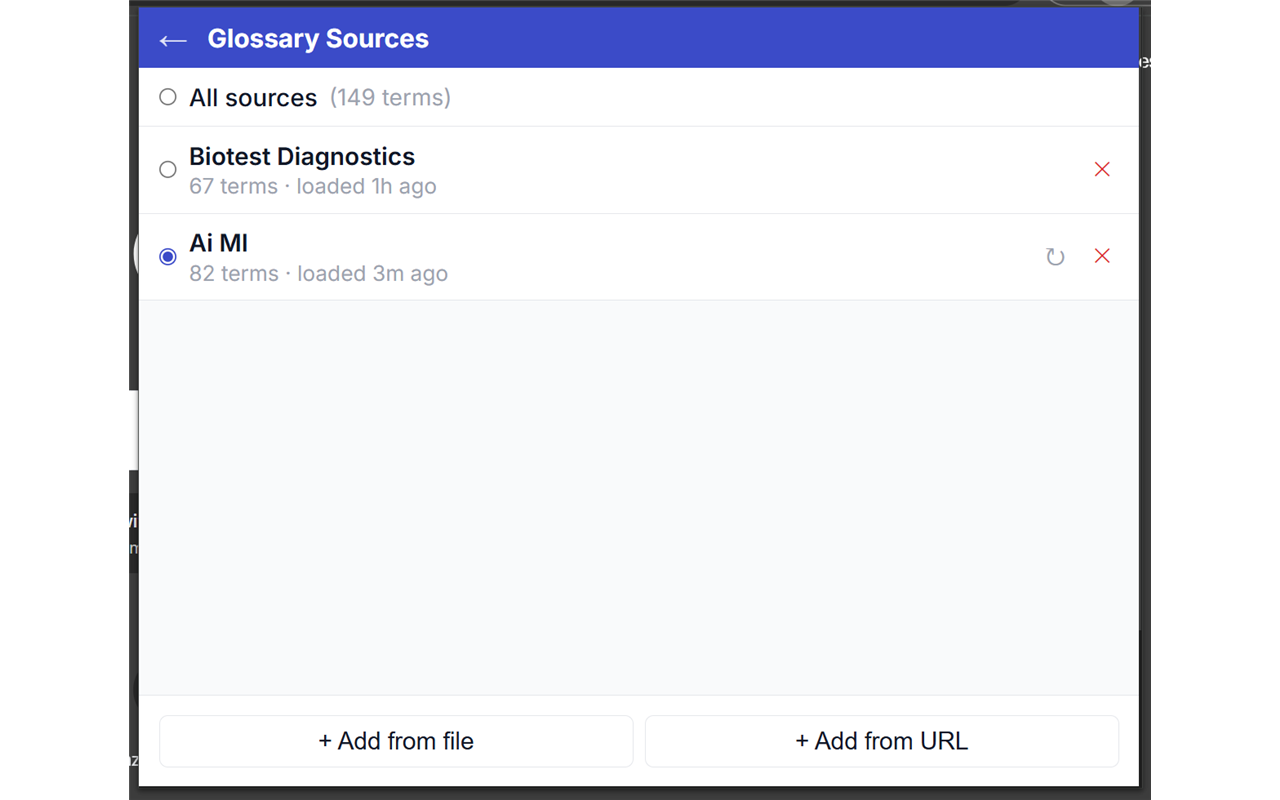
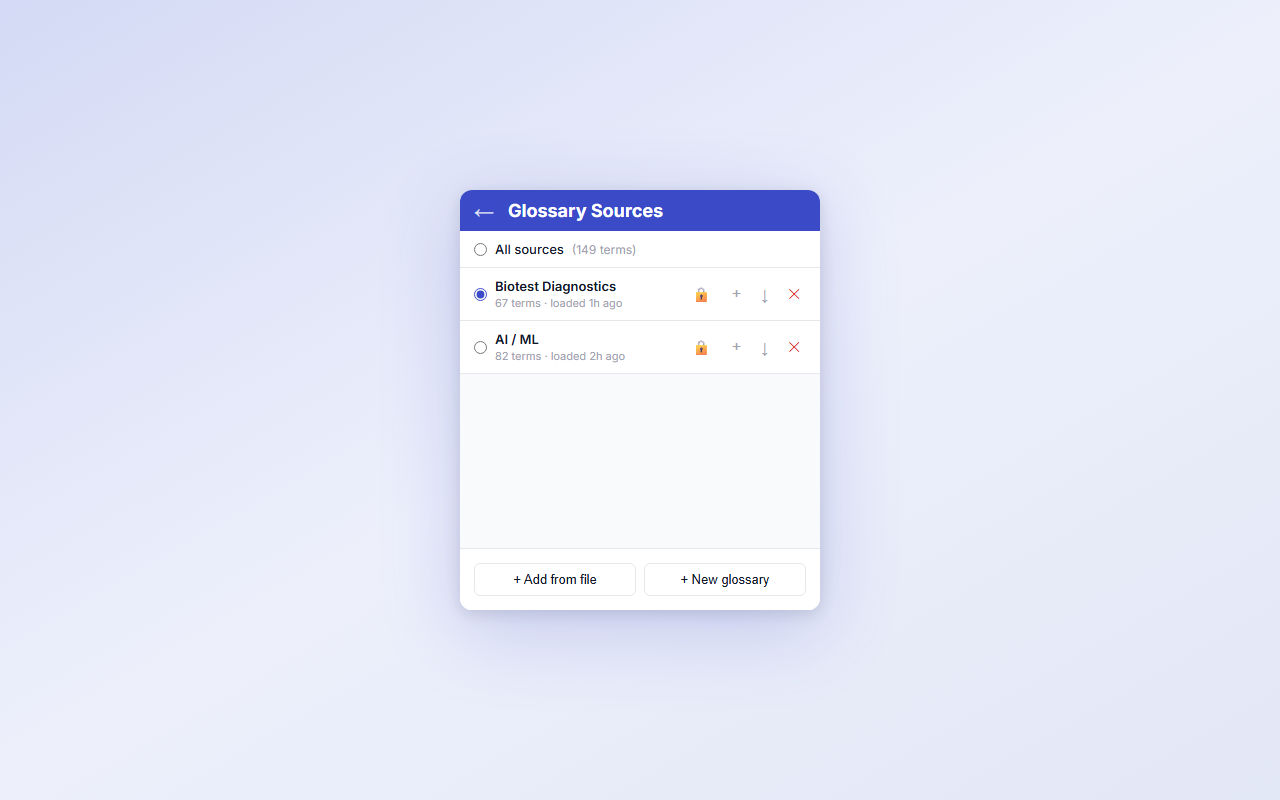
Update screenshots to v1.0.4 UI; add screenshot script
Regenerate all three CWS screenshots at 1280×800 using a new Playwright
script (scripts/take-screenshots.mjs, npm run screenshots). Screenshots
now reflect the current UI: pill segment toggle, header button groups with
separator, new Sources view buttons, Browse view in dark mode.

diff --git a/README.md b/README.md
@@ -8,9 +8,9 @@ No accounts. No backend. No subscription. Works fully offline.
 
 > **Official source notice** — The only official, secure, and verified distribution of TermBox is the listing on the [Chrome Web Store](https://chrome.google.com/webstore). Installing this extension from any other source, store, or website is unauthorized, unverified, and entirely at your own risk.
 
-| Search | Sources | In Chrome |
+| Search | Sources | Browse A–Z |
 |---|---|---|
-| ![Search view](docs/screenshots/sample_search.png) | ![Sources view](docs/screenshots/glossary_sources.png) | ![In browser](docs/screenshots/full_screen_image.png) |
+| ![Search view](docs/screenshots/sample_search.png) | ![Sources view](docs/screenshots/glossary_sources.png) | ![Browse view](docs/screenshots/full_screen_image.png) |
 
 ## Demo
 
